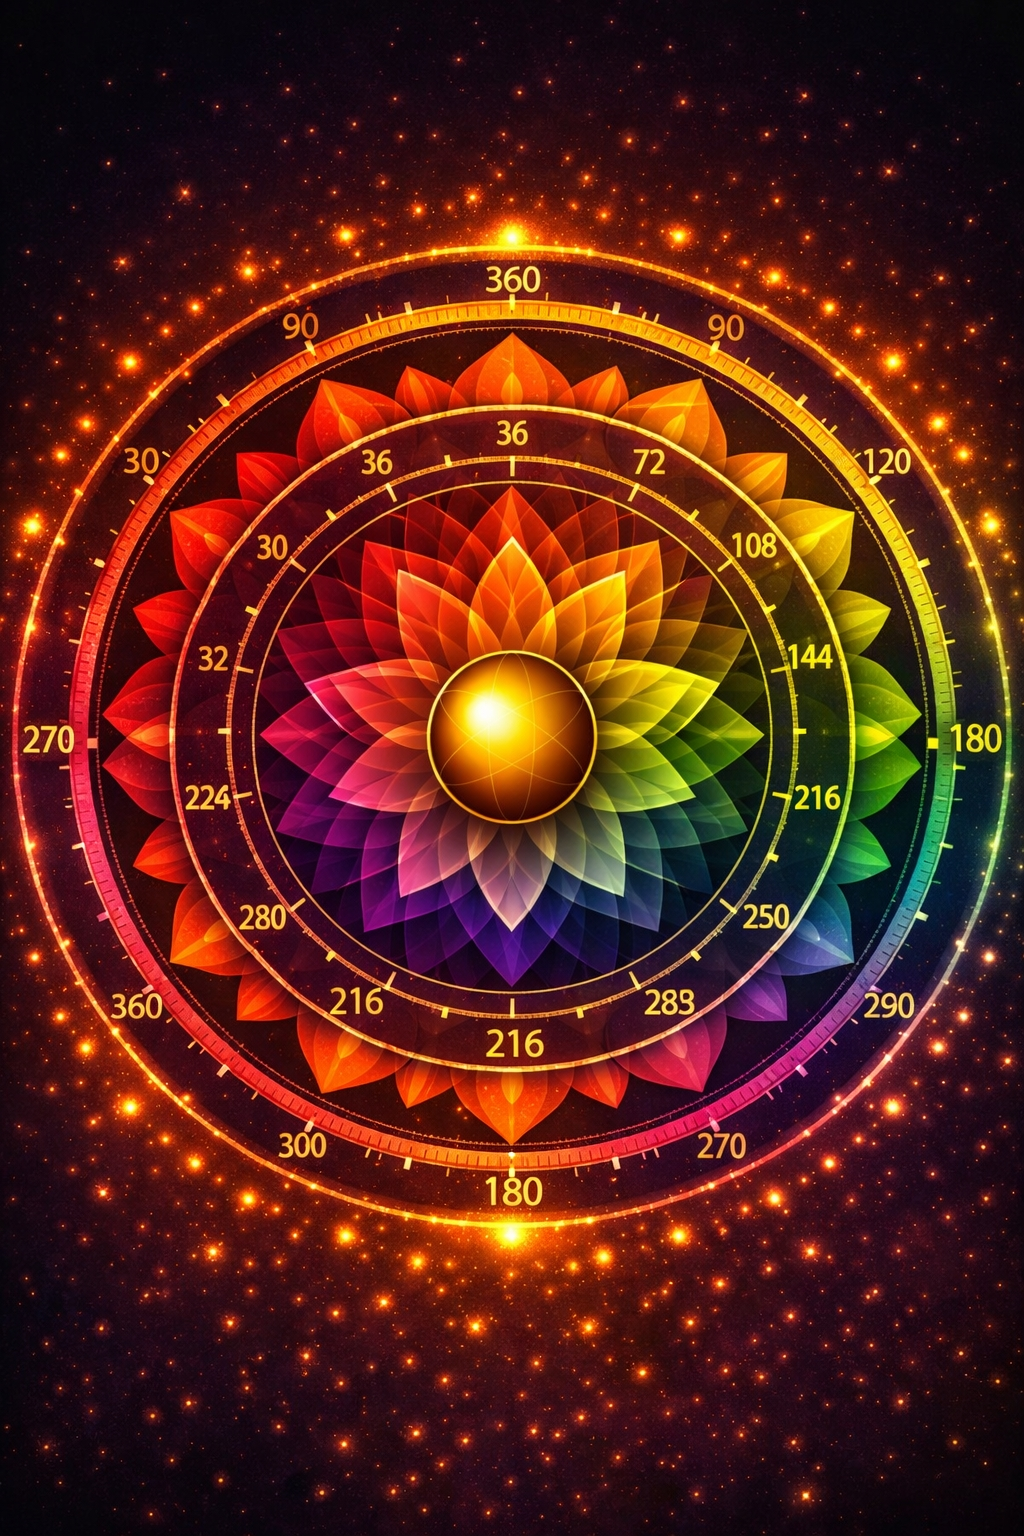
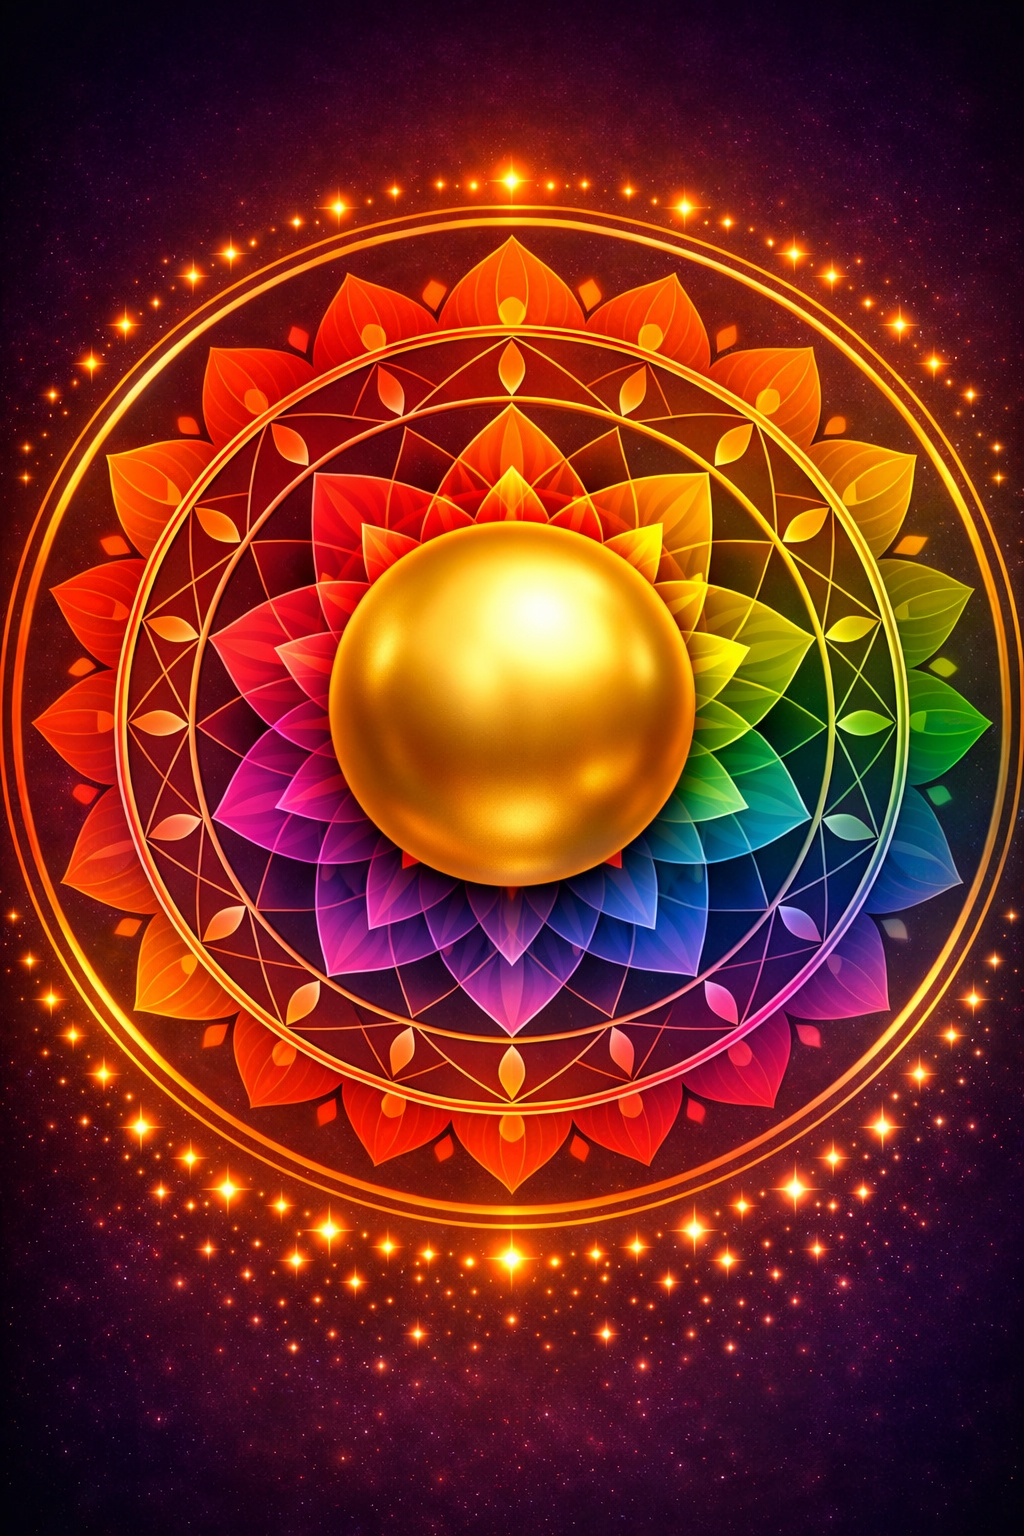
Swap in clean mandala reference (no baked-in digits)
The user supplied a second reference image with the same sphere/flower/
twin-ring/starfield composition but no text baked into the pixels at
all, removing any risk of leftover misplaced numbers bleeding through
the crop. Widened the core crop and softened the feather since there's
nothing left to hide.

diff --git a/omcvibe-app/www/app.js b/omcvibe-app/www/app.js
@@ -67,12 +67,12 @@
     const img = new Image();
     img.onload = () => {
       if (isDefault) {
-        // Recadrage serré sur la fleur centrale, avant les anneaux chiffrés
-        // (mal placés) de l'image générée par IA.
-        const half = img.width * 0.195;
+        // Image sans chiffres : recadrage large sur la fleur + sphère +
+        // double anneau doré, jusqu'à la bordure scintillante.
+        const half = img.width * 0.465;
         img.__omchaCrop = {
           sx: img.width * 0.5 - half,
-          sy: img.height * 0.475 - half,
+          sy: img.height * 0.423 - half,
           sw: half * 2,
           sh: half * 2,
         };

diff --git a/omcvibe-app/www/omcha-render.js b/omcvibe-app/www/omcha-render.js
@@ -212,8 +212,7 @@ const OmchaRenderer = (() => {
       t.globalCompositeOperation = 'destination-in';
       const mg = t.createRadialGradient(cx, cy, 0, cx, cy, coreR);
       mg.addColorStop(0, 'rgba(0,0,0,1)');
-      mg.addColorStop(0.5, 'rgba(0,0,0,1)');
-      mg.addColorStop(0.72, 'rgba(0,0,0,0.55)');
+      mg.addColorStop(0.82, 'rgba(0,0,0,1)');
       mg.addColorStop(1, 'rgba(0,0,0,0)');
       t.fillStyle = mg;
       t.beginPath();
